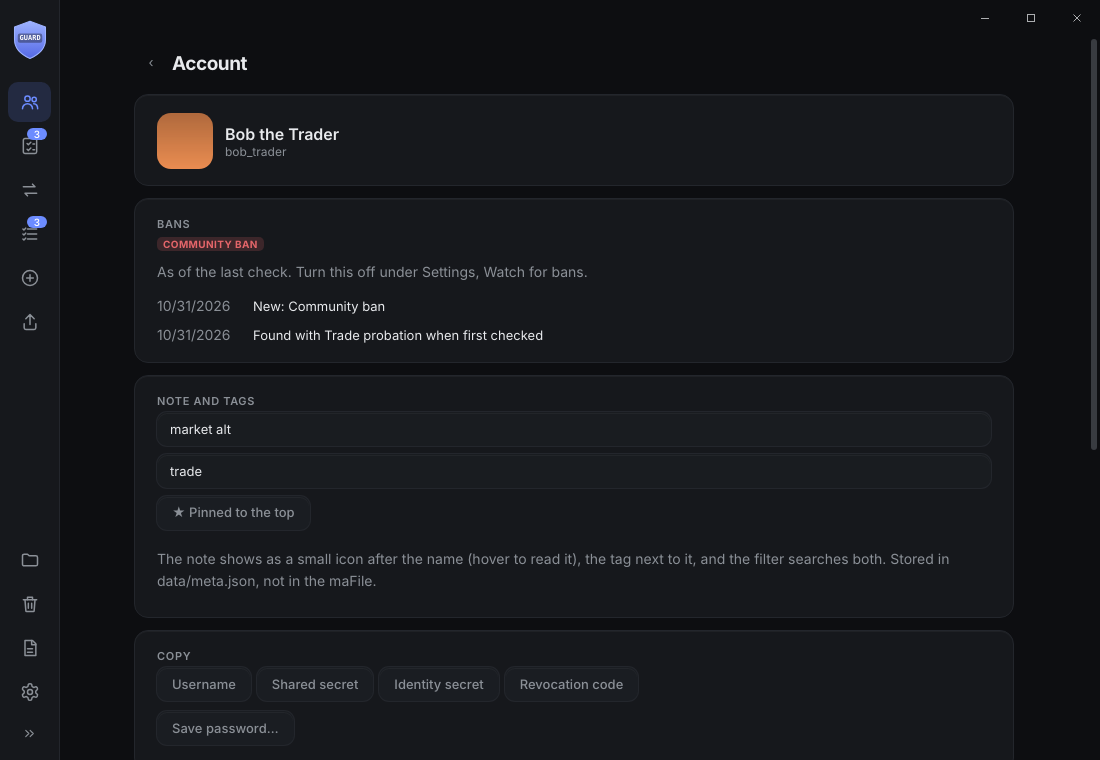
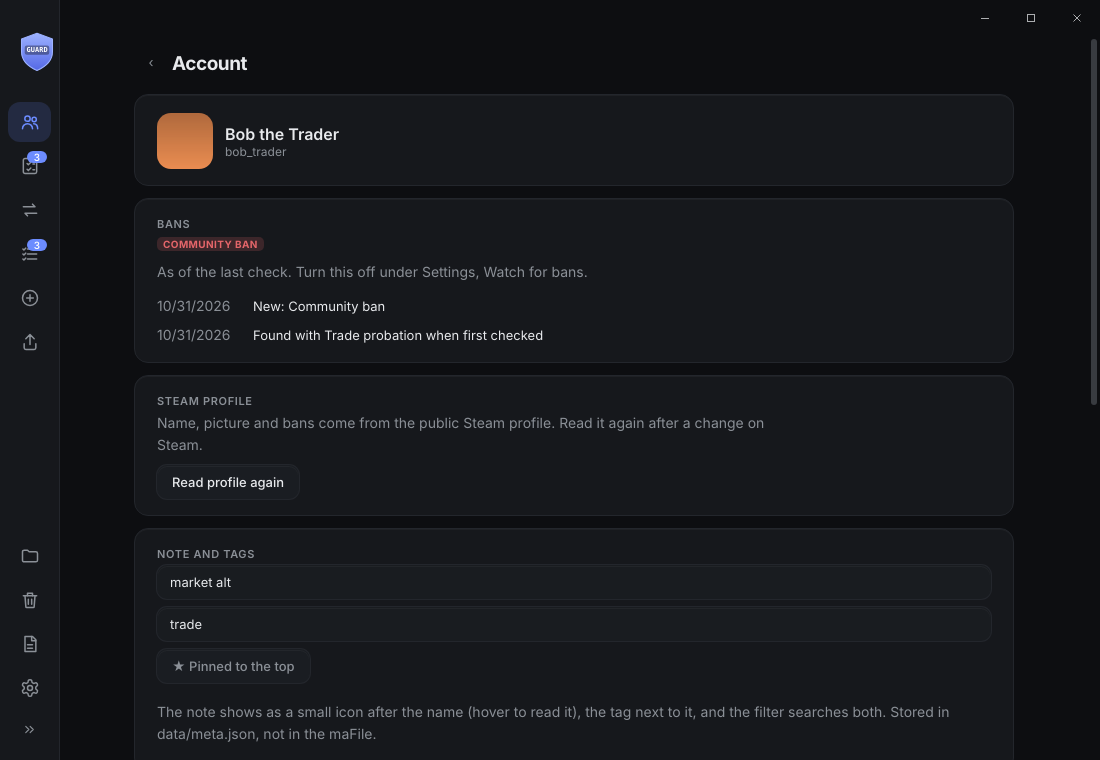
Release 0.9.16: reread profiles, list in setup window, retry on EPERM
Claude-Session: https://claude.ai/code/session_01DW1HzNu7DPUhuZ6F8TPH3n

diff --git a/src/renderer/main.ts b/src/renderer/main.ts
@@ -166,6 +166,7 @@ declare const api: {
 	progress(): P<{ running: boolean; done: number; total: number }>;
 	openSteam(id: string, target: string, link?: string): P<void>;
 	profileSetup(id: string): P<void>;
+	profilesRefresh(id?: string): P<void>;
 	version(): P<string>;
 	updateInfo(force?: boolean): P<{ version: string; url: string } | null>;
 	updateOpen(): P<void>;
@@ -717,7 +718,7 @@ interface DialogField {
 	numeric?: boolean;
 }
 /** A small form in a window of its own. `run` returns an error to show, or nothing to close. */
-function dialog(title: string, text: string, fields: DialogField[], submit: string, run: (v: Record<string, string>) => Promise<string | undefined>): void {
+function dialog(title: string, text: string, fields: DialogField[], submit: string, run: (v: Record<string, string>) => Promise<string | undefined>, list: string[] = []): void {
 	document.querySelector('.modal')?.remove();
 	const inputs = fields.map((f) => el('input', { type: 'password', autocomplete: 'off', spellcheck: false, placeholder: f.label, ariaLabel: f.label, ...(f.numeric ? { inputMode: 'numeric' as const } : {}) }));
 	const err = el('p', { class: 'hint error', textContent: '' });
@@ -726,7 +727,7 @@ function dialog(title: string, text: string, fields: DialogField[], submit: stri
 		overlay.remove();
 		document.removeEventListener('keydown', onKey);
 	};
-	const form = el('form', { class: 'signin' }, el('h1', { textContent: title }), el('p', { class: 'hint', textContent: text }), ...inputs, err, el('div', { class: 'row-actions' }, el('button', { class: 'small', type: 'button', textContent: 'Cancel', onclick: close }), btn));
+	const form = el('form', { class: 'signin' }, el('h1', { textContent: title }), el('p', { class: 'hint', textContent: text }), ...(list.length ? [el('ul', { class: 'dlg-list' }, ...list.map((n) => el('li', { textContent: n })))] : []), ...inputs, err, el('div', { class: 'row-actions' }, el('button', { class: 'small', type: 'button', textContent: 'Cancel', onclick: close }), btn));
 	const overlay = el('div', { class: 'modal' }, el('div', { class: 'lock-card left' }, form));
 	const onKey = (e: KeyboardEvent): void => {
 		if (e.key === 'Escape') close();
@@ -803,7 +804,7 @@ async function listScreen(): Promise<void> {
 		'header',
 		{},
 		el('h1', { class: 'title', textContent: 'Accounts' }),
-		el('div', { class: 'actions' }, iconButton('Check confirmations now', '↻', () => void api.refreshAll()), )
+		el('div', { class: 'actions' }, iconButton('Read all Steam profiles again (names, pictures, bans)', '↻', () => { void api.profilesRefresh().then(() => { toast('Reading the Steam profiles again. This takes a moment'); void refreshView(); }); }))
 	);
 	const strip = progressStrip();
 	const search = el('input', { type: 'text', class: 'search', placeholder: 'Filter accounts', value: query, ariaLabel: 'Filter accounts', spellcheck: false });
@@ -896,6 +897,7 @@ async function listScreen(): Promise<void> {
 			{ label: 'Send items…', run: () => void navigate({ name: 'trades', id }) },
 			{ label: 'Details, note and tags…', run: () => void navigate({ name: 'detail', id }) },
 			{ label: row.pending ? `Confirmations (${row.pending})…` : 'Confirmations…', run: () => void navigate({ name: 'confirms' }) },
+			{ label: 'Read Steam profile again', run: async () => { await api.profilesRefresh(id); toast('Reading the Steam profile again'); await refresh(); } },
 			{ label: 'Set up Steam profile', run: async () => { const r = await api.profileSetup(id); toast(r.ok ? 'Steam profile set up. Steam takes a minute or two to show it' : r.error, !r.ok); await refresh(); } },
 			{ label: 'Check confirmations now', run: async () => { const r = await api.refresh(id); toast(r.ok ? 'Checked' : r.error, !r.ok); await refresh(); } },
 			'sep',
@@ -941,7 +943,7 @@ async function listScreen(): Promise<void> {
 		const count = (k: TodoItem['kind']): number => todo.filter((t) => t.kind === k).length;
 		const defs: [TodoItem['kind'], string][] = [['signin', 'need sign-in'], ['expiring', 'sign-in running out'], ['password', 'without password'], ['revocation', 'without revocation code'], ['activation', 'not activated']];
 		const unset = lastRows.filter((r) => r.noProfile);
-		const setupChip = unset.length ? [el('button', { class: 'ov-chip warn', type: 'button', title: 'Opens Steam\'s profile editor for each of these accounts, like the "Set Up Steam Profile" button', textContent: `${unset.length} without Steam profile`, onclick: (e: Event) => {
+		const setupChip = unset.length ? [el('button', { class: 'ov-chip amber', type: 'button', title: 'Opens Steam\'s profile editor for each of these accounts, like the "Set Up Steam Profile" button', textContent: `${unset.length} without Steam profile`, onclick: (e: Event) => {
 			const b = e.currentTarget as HTMLButtonElement;
 			dialog('Set up Steam profiles', `Set up the Steam profile of ${unset.length} account${unset.length === 1 ? '' : 's'}? For each one the app opens Steam's profile editor and saves it once with the name the account already has. It takes about ${Math.ceil(unset.length * 2.5)} seconds, and Steam needs a minute or two afterwards to show the profiles.`, [], `Set up ${unset.length} profile${unset.length === 1 ? '' : 's'}`, async () => {
 				void (async () => {
@@ -958,7 +960,7 @@ async function listScreen(): Promise<void> {
 					void refreshView();
 				})();
 				return undefined;
-			});
+			}, unset.map((r) => accountLabel(r.name, r.nickname)));
 		} })] : [];
 		const chips = defs.filter(([k]) => count(k) > 0).map(([k, text]) => el('button', { class: 'ov-chip warn', type: 'button', title: 'Open the To do list', textContent: `${count(k)} ${text}`, onclick: () => void navigate({ name: 'todo' }) }));
 		overview.replaceChildren(
@@ -1949,17 +1951,19 @@ async function detailScreen(id: string): Promise<void> {
 					d.value.bans.length ? el('div', { class: 'chips' }, ...d.value.bans.map((b) => el('span', { class: 'ban-tag', textContent: b }))) : el('p', { class: 'hint', textContent: 'No bans at the moment.' }),
 					el('p', { class: 'hint', textContent: `${d.value.banNote ? d.value.banNote + ' ' : ''}As of the last check. Turn this off under Settings, Watch for bans.` }),
 					...(d.value.banHistory.length ? [el('ul', { class: 'ban-history' }, ...[...d.value.banHistory].reverse().map((e) => el('li', {}, el('span', { class: 'hint', textContent: new Date(e.at).toLocaleDateString() }), el('span', { textContent: e.what }))))] : []))] : []),
-				...(d.value.noProfile ? [el('section', { class: 'group' }, el('h2', { class: 'todo-title', textContent: 'Steam profile' }),
-					el('p', { class: 'hint', textContent: 'This account has no Steam Community profile yet. Steam needs one for trading and for the nickname and picture to show. This does the same as the "Set Up Steam Profile" button on the Steam website.' }),
-					el('div', { class: 'row-actions left' }, el('button', { class: 'small primary', type: 'button', textContent: 'Set up Steam profile', onclick: async (e: Event) => {
-						const b = e.currentTarget as HTMLButtonElement;
-						b.disabled = true;
-						const r = await api.profileSetup(id);
-						b.disabled = false;
-						if (!r.ok) return toast(r.error, true);
-						toast('Steam profile set up. Steam takes a minute or two to show it');
-						void navigate({ name: 'detail', id });
-					} })))] : []),
+				el('section', { class: 'group' }, el('h2', { class: 'todo-title', textContent: 'Steam profile' }),
+					el('p', { class: d.value.noProfile ? 'hint warn' : 'hint', textContent: d.value.noProfile ? 'This account has no Steam Community profile yet. Steam needs one for trading and for the nickname and picture to show. "Set up" does the same as the "Set Up Steam Profile" button on the Steam website.' : 'Name, picture and bans come from the public Steam profile. Read it again after a change on Steam.' }),
+					el('div', { class: 'row-actions left' },
+						el('button', { class: 'small', type: 'button', textContent: 'Read profile again', onclick: async () => { await api.profilesRefresh(id); toast('Reading the Steam profile again. This takes a moment'); } }),
+						...(d.value.noProfile ? [el('button', { class: 'small primary', type: 'button', textContent: 'Set up Steam profile', onclick: async (e: Event) => {
+							const b = e.currentTarget as HTMLButtonElement;
+							b.disabled = true;
+							const r = await api.profileSetup(id);
+							b.disabled = false;
+							if (!r.ok) return toast(r.error, true);
+							toast('Steam profile set up. Steam takes a minute or two to show it');
+							void navigate({ name: 'detail', id });
+						} })] : []))),
 				el('section', { class: 'group' }, el('h2', { class: 'todo-title', textContent: 'Note and tags' }), noteRow),
 				el('section', { class: 'group' }, el('h2', { class: 'todo-title', textContent: 'Copy' }), chips, pwBlock),
 				el('section', { class: 'group' }, el('h2', { class: 'todo-title', textContent: 'Open on Steam, signed in' }), webBar, el('p', { class: 'hint', textContent: 'Opens a separate window that is already logged in as this account. Nothing is kept when you close it.' })),

diff --git a/src/main/atomic.ts b/src/main/atomic.ts
@@ -1,4 +1,4 @@
-import { closeSync, copyFileSync, existsSync, fsyncSync, mkdirSync, openSync, renameSync, writeSync } from 'node:fs';
+import { closeSync, copyFileSync, existsSync, fsyncSync, mkdirSync, openSync, renameSync, unlinkSync, writeFileSync, writeSync } from 'node:fs';
 import { dirname } from 'node:path';
 
 /**
@@ -23,7 +23,32 @@ export function writeFileAtomic(file: string, data: string | Buffer, opts: { mod
 			/* a failed backup must not stop the save */
 		}
 	}
-	renameSync(tmp, file);
+	replace(tmp, file, data, opts.mode);
+}
+
+const sleep = (ms: number): void => void Atomics.wait(new Int32Array(new SharedArrayBuffer(4)), 0, 0, ms);
+
+/**
+ * Moves the finished temporary file over the real one. A folder that a sync program (Proton Drive, OneDrive, an antivirus) is watching can refuse the
+ * rename for a moment (EPERM, EBUSY, EACCES), so it is tried again a few times. If it is still refused, the content is written straight into the file.
+ */
+function replace(tmp: string, file: string, data: string | Buffer, mode?: number): void {
+	const busy = (err: unknown): boolean => ['EPERM', 'EBUSY', 'EACCES'].includes((err as { code?: string } | null)?.code ?? '');
+	for (const wait of [0, 25, 60, 120, 250, 500, 1000]) {
+		sleep(wait);
+		try {
+			renameSync(tmp, file);
+			return;
+		} catch (err) {
+			if (!busy(err)) throw err;
+		}
+	}
+	writeFileSync(file, data, { mode: mode ?? 0o600 });
+	try {
+		unlinkSync(tmp);
+	} catch {
+		/* the leftover temporary file is harmless */
+	}
 }
 
 /** What to tell the person when a file could not be written. */

diff --git a/src/renderer/style.css b/src/renderer/style.css
@@ -718,3 +718,8 @@ select { appearance: none; padding-right: 30px; background-image: url("data:imag
 .nav .count, .shell.collapsed .nav .count { position: absolute; right: 12px; top: 50%; transform: translateY(-50%); font-size: 11px; transition: right .22s, top .22s, transform .22s; }
 .shell.collapsed .nav .count { right: 4px; top: 5px; transform: none; font-size: 10px; }
 .shell.collapsed .nav .label + .count { margin: 0; }
+
+.ov-chip.amber { color: var(--warn); border-color: color-mix(in srgb, var(--warn) 45%, transparent); cursor: pointer; }
+.ov-chip.amber:hover { background: color-mix(in srgb, var(--warn) 10%, transparent); }
+.dlg-list { list-style: none; margin: 0; padding: 8px 12px; max-height: 160px; overflow-y: auto; border-radius: var(--radius); background: var(--raised); display: flex; flex-direction: column; gap: 4px; font-size: 13px; }
+.dlg-list li { color: var(--warn); }

diff --git a/src/main/index.ts b/src/main/index.ts
@@ -485,6 +485,10 @@ function registerIpc(): void {
 		if (typeof target !== 'string' || !(target in TARGETS)) throw new UserError('Unknown page');
 		openSteamWindow(id, accounts.get(id)!.accountName, await token(), target, { links });
 	});
+	handle('profilesRefresh', (steamId?: unknown) => {
+		if (steamId === undefined || steamId === null) avatars.refreshAll();
+		else avatars.forget(known(steamId));
+	});
 	handle('profileSetup', async (steamId: unknown) => {
 		const id = known(steamId);
 		await setupProfile(fetchHttp, id, await cookieOf(id));

diff --git a/src/preload/index.ts b/src/preload/index.ts
@@ -41,6 +41,7 @@ contextBridge.exposeInMainWorld('api', {
 	addFolder: () => call('addFolder'),
 	refreshAll: () => call('refreshAll'),
 	openSteam: (id: string, target: string, link?: string) => call('openSteam', id, target, link),
+	profilesRefresh: (id?: string) => call('profilesRefresh', id),
 	profileSetup: (id: string) => call('profileSetup', id),
 	todo: () => call('todo'),
 	todoIgnore: (id: string, kind: string) => call('todoIgnore', id, kind),

diff --git a/CHANGELOG.md b/CHANGELOG.md
@@ -1,5 +1,10 @@
 # Changelog
 
+## 0.9.16
+- Read the Steam profiles again: the round-arrow button at the top of the Accounts page now reads all profiles again (names, pictures, bans). Before, it was "check confirmations now", which the app does by itself and which has its own button on the Confirmations page. For one account: "Read profile again" on its account page, and "Read Steam profile again" in its right-click menu.
+- The confirmation window for "N without Steam profile" lists the accounts that will be set up, and the mark is amber like the icon on the rows.
+- Saving a settings file no longer fails with "EPERM: operation not permitted, rename" when a sync program such as Proton Drive holds the file for a moment: the replace is tried again a few times, and if the file is still refused the content is written straight into it. This covers every file the app saves, not only the settings.
+
 ## 0.9.15
 - Nickname of an account without a Steam profile: after the public profile page, the app also reads the "Hello, name." greeting of the page the account itself sees when signed in (the one with the "Set Up Steam Profile" button). Only that greeting is used, never a page title.
 
